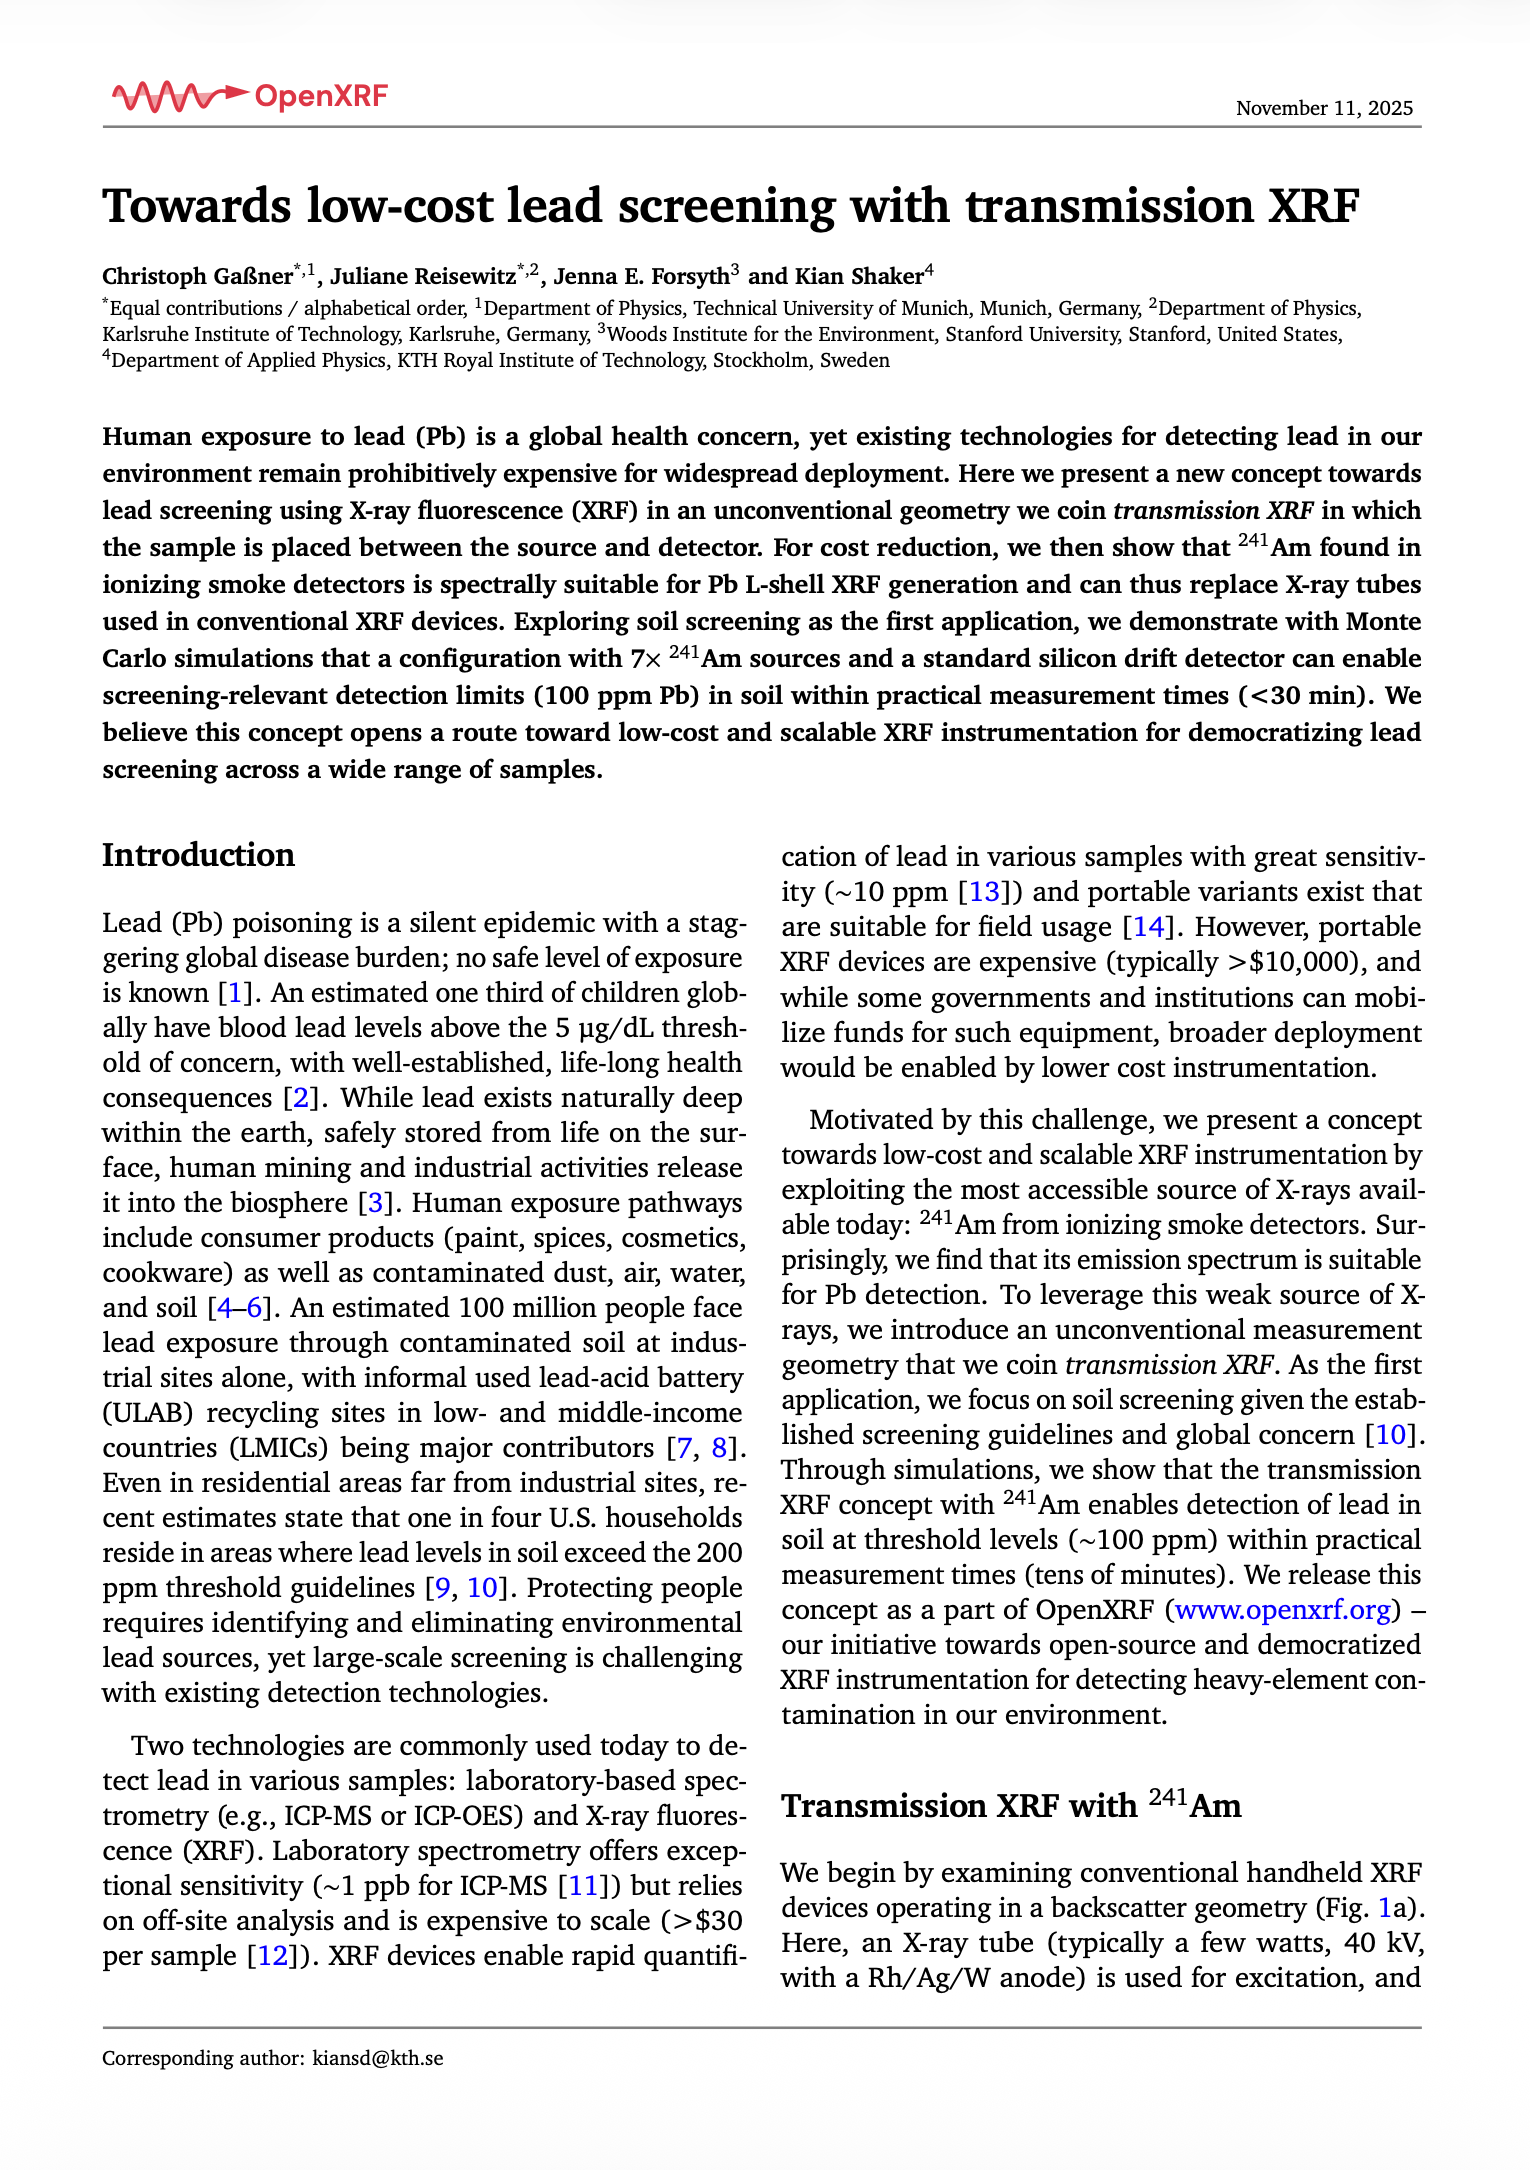
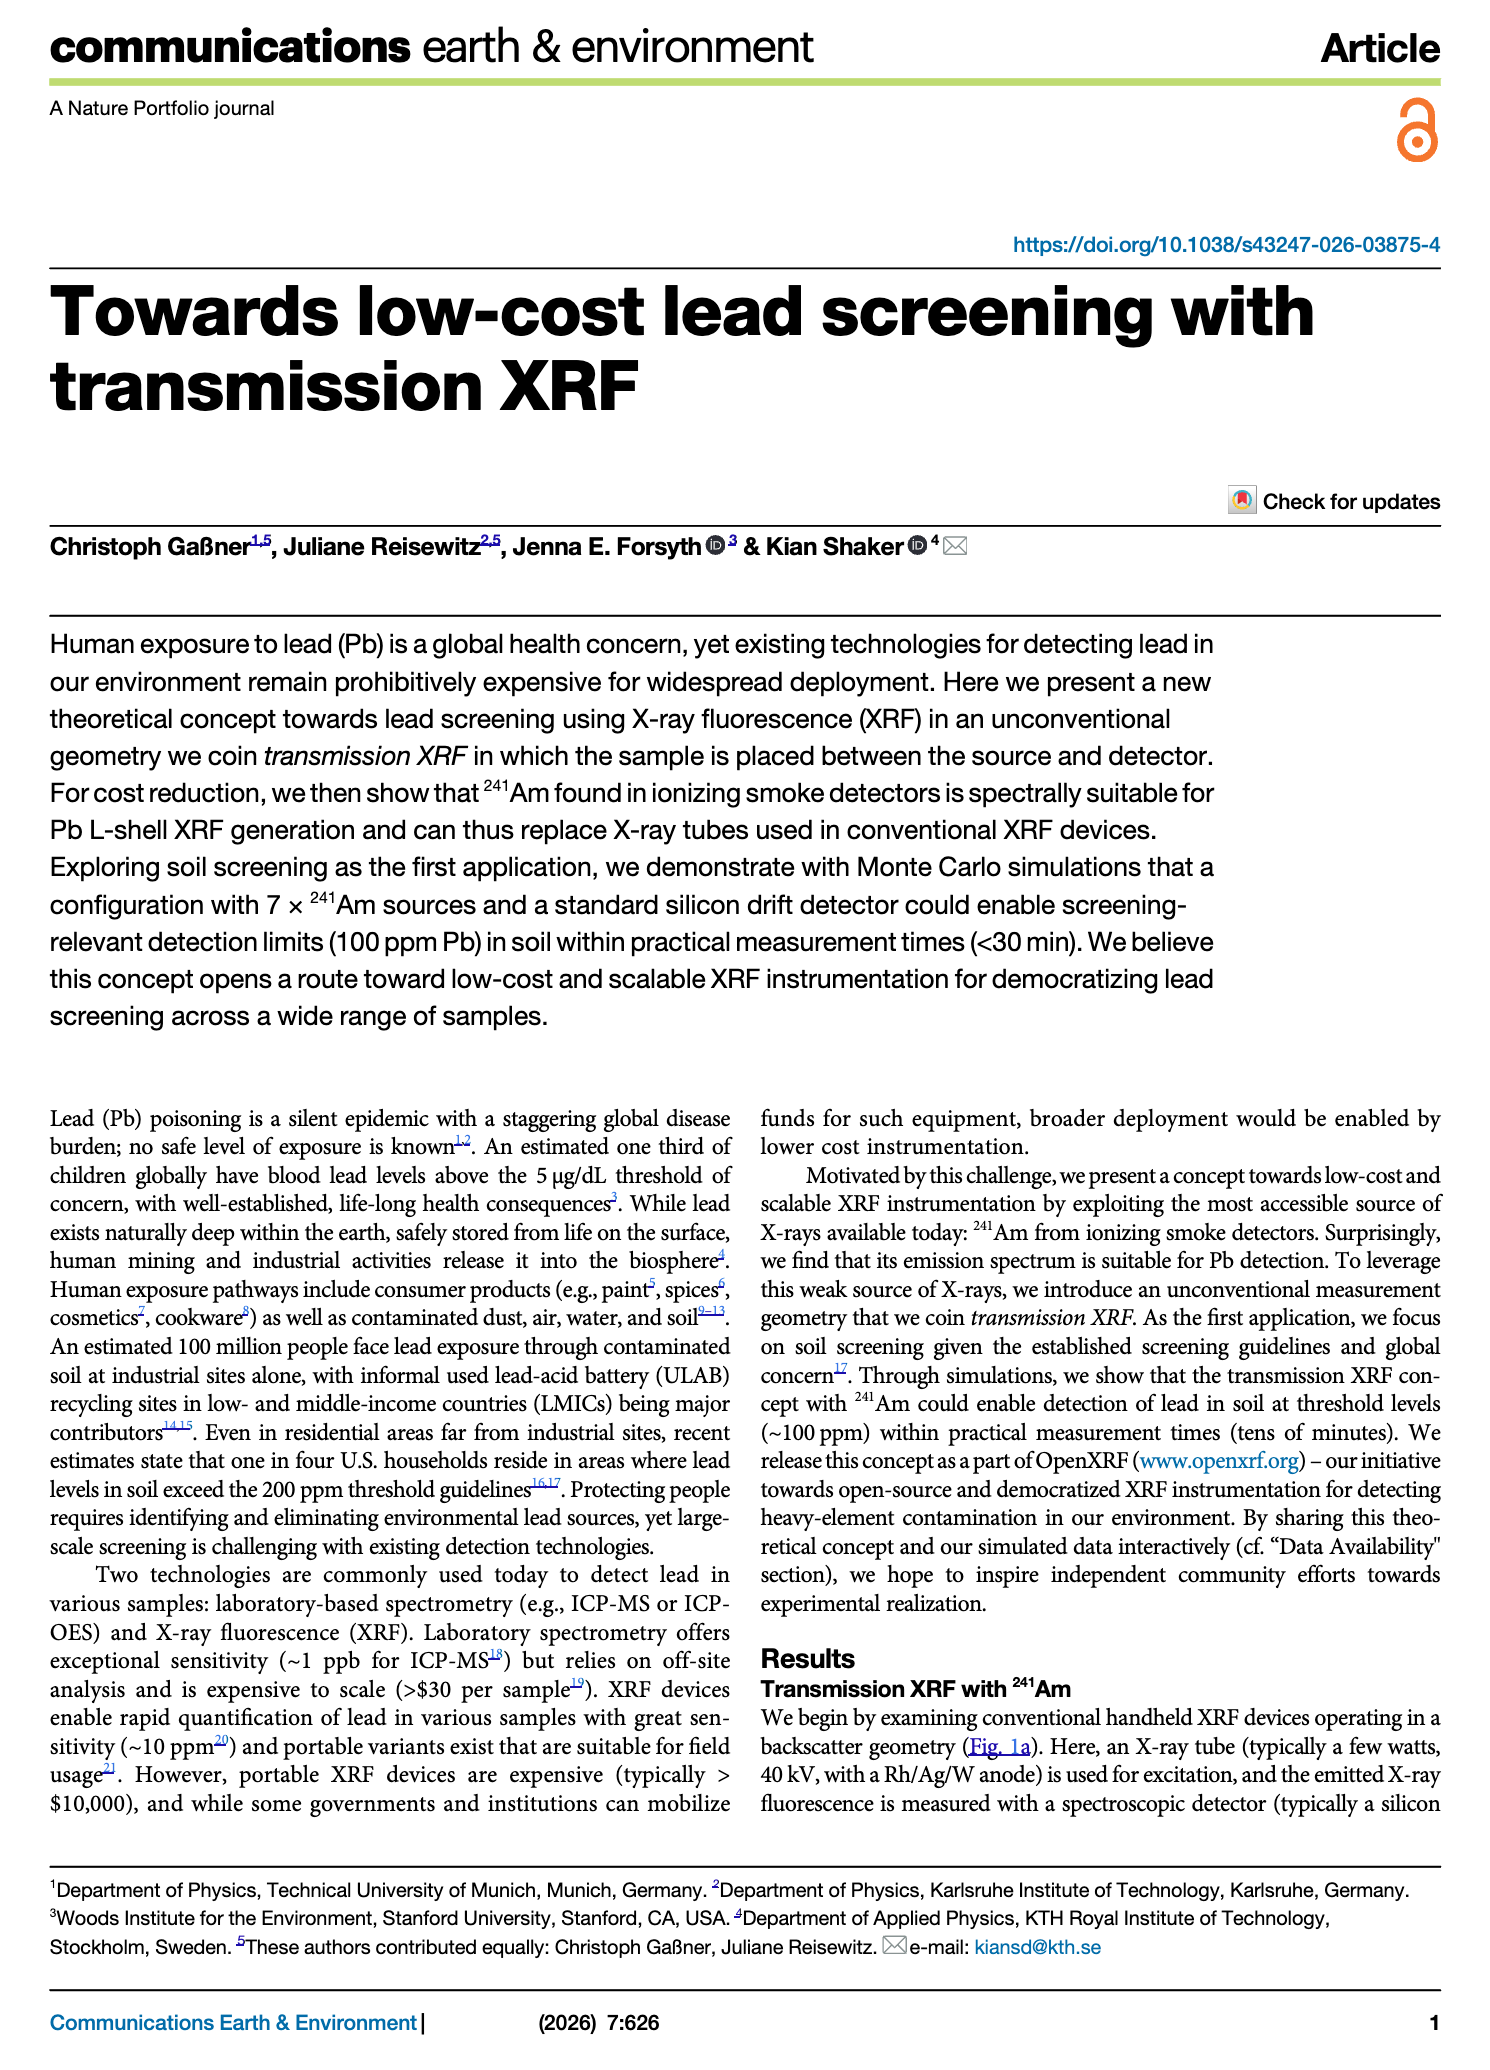
Link published Commun Earth Environ version alongside preprint
The paper is now peer-reviewed and published (DOI 10.1038/s43247-026-03875-4).
"Read the paper" and the first-page thumbnail point to the journal; the arXiv
preprint moves to its own button above the repository link.

Changed region(s): [[0.0309, 0.0, 0.9879, 0.9894]]

diff --git a/index.html b/index.html
@@ -329,6 +329,19 @@
             display: block;
         }
 
+        .icon-arxiv {
+            width: auto;
+            height: 20px;
+        }
+
+        .link-stack {
+            display: flex;
+            flex-direction: column;
+            gap: 1rem;
+            flex: 1;
+            min-width: 200px;
+        }
+
         @media (max-width: 1024px) {
             .logo-header {
                 width: 90%;
@@ -461,7 +474,7 @@
         </div>
 
         <div class="right-section">
-            <div class="announcement-badge">First Release • Nov 12, 2025 </div>
+            <div class="announcement-badge">Peer-Reviewed • Jul 30, 2026</div>
             
             <h1 class="paper-title">Towards low-cost lead screening</h1>
             
@@ -475,23 +488,33 @@
             <div class="links-container">
                 <div class="buttons-row">
                     <div class="paper-section">
-                        <a href="https://arxiv.org/abs/2511.09110" class="link-button primary" target="_blank" rel="noopener noreferrer">
-                            <svg class="icon" viewBox="0 0 24 24" fill="none" stroke="currentColor" stroke-width="2">
-                                <path d="M14 2H6a2 2 0 0 0-2 2v16a2 2 0 0 0 2 2h12a2 2 0 0 0 2-2V8z"></path>
-                                <polyline points="14 2 14 8 20 8"></polyline>
-                                <line x1="16" y1="13" x2="8" y2="13"></line>
-                                <line x1="16" y1="17" x2="8" y2="17"></line>
-                                <polyline points="10 9 9 9 8 9"></polyline>
+                        <a href="https://doi.org/10.1038/s43247-026-03875-4" class="link-button primary" target="_blank" rel="noopener noreferrer">
+                            <svg class="icon" viewBox="0 0 24 24" fill="none" stroke="currentColor" stroke-width="2" stroke-linecap="round" stroke-linejoin="round">
+                                <path d="M2 3h6a4 4 0 0 1 4 4v14a3 3 0 0 0-3-3H2z"></path>
+                                <path d="M22 3h-6a4 4 0 0 0-4 4v14a3 3 0 0 1 3-3h7z"></path>
                             </svg>
                             Read the paper
                         </a>
                         
-                        <a href="https://arxiv.org/abs/2511.09110" class="paper-preview-small" target="_blank" rel="noopener noreferrer">
-                            <img src="paper_firstpage.png" alt="Paper preview">
+                        <a href="https://doi.org/10.1038/s43247-026-03875-4" class="paper-preview-small" target="_blank" rel="noopener noreferrer">
+                            <img src="paper_firstpage.png" alt="First page of the published paper in Communications Earth &amp; Environment">
                         </a>
                     </div>
                     
-                    <div style="flex: 1; min-width: 200px;">
+                    <div class="link-stack">
+                        <a href="https://arxiv.org/abs/2511.09110" class="link-button" target="_blank" rel="noopener noreferrer">
+                            <svg class="icon icon-arxiv" viewBox="0 0 74.492 100.25" aria-hidden="true">
+                                <g transform="translate(-526.086 -245.559)">
+                                    <path d="M553.264,283.782l29.888-27.1a5.163,5.163,0,0,1,3.265-1.515,4.168,4.168,0,0,1,.544.037,6.622,6.622,0,0,1,4.18,3.251c.612,1.507.268,2.693-1.416,4.88l-26.858,31.724Z" fill="#fff"/>
+                                    <path d="M586.417,255.912a3.534,3.534,0,0,1,.448.03,5.923,5.923,0,0,1,3.581,2.791c.454,1.116.314,2.023-1.315,4.14L562.865,293.9l-8.558-10.047,29.349-26.616a4.4,4.4,0,0,1,2.761-1.321m0-1.5a5.767,5.767,0,0,0-3.689,1.642l-.041.033-.039.035L553.3,282.738l-1.077.977.943,1.107,8.558,10.046,1.146,1.345,1.141-1.348,26.266-31.022.023-.027.021-.028c1.575-2.046,2.328-3.622,1.516-5.62a7.309,7.309,0,0,0-4.779-3.713,4.891,4.891,0,0,0-.64-.043Z" fill="currentColor"/>
+                                    <path d="M577.758,289.555l-43.7-41.923s-1.671-2.029-3.437-2.071a4.49,4.49,0,0,0-4.23,2.718c-.688,1.651-.194,2.809,1.315,4.97l34.775,42.2-.017,0-25.884,31.793c-1.255,1.337-2.032,3.683-1.331,5.367a4.587,4.587,0,0,0,4.287,2.841,4.087,4.087,0,0,0,3.082-1.523l35.1-32.634A7.926,7.926,0,0,0,577.758,289.555Z" fill="currentColor"/>
+                                    <path d="M595.193,345.06A4.725,4.725,0,0,1,592,343.741l-44.508-42.39c-3.656-3.656-3.48-8.728.424-12.632l5.569-5.211,9.486,11.158,35.517,42.75a4.44,4.44,0,0,1,1.188,4.115,4.85,4.85,0,0,1-3.22,3.338A4.353,4.353,0,0,1,595.193,345.06Z" fill="#fff"/>
+                                    <path d="M553.423,284.593l8.977,10.558L597.911,337.9c.873,1.093,1.419,2.186,1.047,3.418a4.092,4.092,0,0,1-2.721,2.837,3.557,3.557,0,0,1-1.045.159,4,4,0,0,1-2.687-1.124L548.01,300.808c-3.5-3.5-2.971-8.151.436-11.558l4.977-4.657m.124-2.17L552.4,283.5l-4.976,4.656c-4.192,4.191-4.372,9.816-.473,13.714l44.521,42.4a5.485,5.485,0,0,0,3.722,1.538,5.1,5.1,0,0,0,1.483-.224,5.59,5.59,0,0,0,3.719-3.838,5.175,5.175,0,0,0-1.31-4.788l-35.53-42.767-8.988-10.571-1.019-1.2Z" fill="currentColor"/>
+                                </g>
+                            </svg>
+                            Preprint (Nov 12, 2025)
+                        </a>
+
                         <a href="https://github.com/OpenXRF/lead-screening" class="link-button" target="_blank" rel="noopener noreferrer">
                             <svg class="icon" viewBox="0 0 24 24" fill="currentColor">
                                 <path d="M12 0c-6.626 0-12 5.373-12 12 0 5.302 3.438 9.8 8.207 11.387.599.111.793-.261.793-.577v-2.234c-3.338.726-4.033-1.416-4.033-1.416-.546-1.387-1.333-1.756-1.333-1.756-1.089-.745.083-.729.083-.729 1.205.084 1.839 1.237 1.839 1.237 1.07 1.834 2.807 1.304 3.492.997.107-.775.418-1.305.762-1.604-2.665-.305-5.467-1.334-5.467-5.931 0-1.311.469-2.381 1.236-3.221-.124-.303-.535-1.524.117-3.176 0 0 1.008-.322 3.301 1.23.957-.266 1.983-.399 3.003-.404 1.02.005 2.047.138 3.006.404 2.291-1.552 3.297-1.23 3.297-1.23.653 1.653.242 2.874.118 3.176.77.84 1.235 1.911 1.235 3.221 0 4.609-2.807 5.624-5.479 5.921.43.372.823 1.102.823 2.222v3.293c0 .319.192.694.801.576 4.765-1.589 8.199-6.086 8.199-11.386 0-6.627-5.373-12-12-12z"/>
